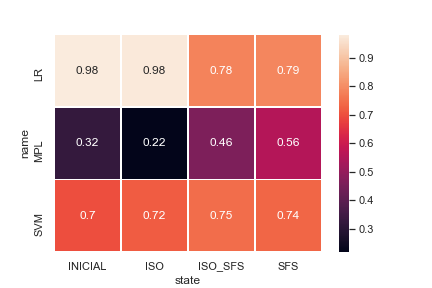
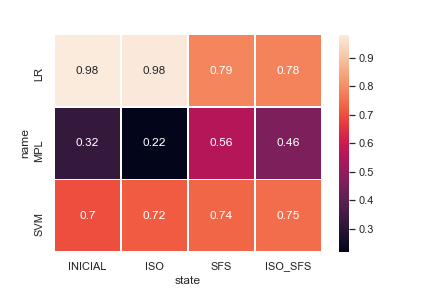
Corrige tabela pivot

diff --git a/weight_lifting.py b/weight_lifting.py
@@ -263,7 +263,8 @@ class WeightLifting:
         resultados = df[columns]
         resultados.columns = [col.lower() for col in columns]
         resultados.to_csv("outputs/resultados.csv")
-        sns_plot = sns.heatmap(
-            resultados.pivot("name", "state", "accuracy"), annot=True, linewidths=0.5
-        )
+        pivot = resultados.pivot("name", "state", "accuracy")[
+            ["INICIAL", "ISO", "SFS", "ISO_SFS"]
+        ]
+        sns_plot = sns.heatmap(pivot, annot=True, linewidths=0.5)
         sns_plot.figure.savefig("outputs/img/results_heatmap.png")
